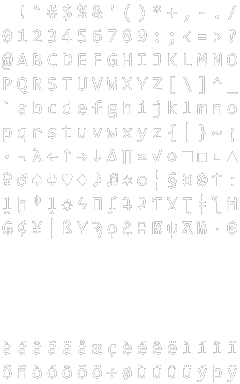
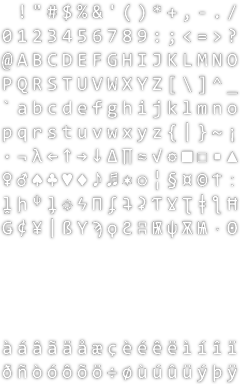
Introduce shadows below text glyphs, computed by WhiteAsAlpha.

diff --git a/tools/WhiteToAlpha/HQImage.java b/tools/WhiteToAlpha/HQImage.java
@@ -10,7 +10,7 @@ import java.util.Random;
 final public class HQImage
 {
 	private float[] data; 
-	private int width, height;
+	public int width, height;
 	static float SUBPIXEL_BIAS_R = -0.50f;
 	static float SUBPIXEL_BIAS_B = +0.50f;
 	void setData(int i, int j, int c, float value)
@@ -271,6 +271,61 @@ final public class HQImage
 		double res = Utils.hermite(fy, l1, l2, l3, l4);		
 		return res;
 	}
+
+	public HQImage blurHorizontal(float[] weights, float divider)
+	{
+		int N = weights.length;
+		assert((N % 2) == 1); // should be odd
+
+		HQImage res = new HQImage(width, height);
+
+		for (int j = 0; j < height; ++j)
+		{
+			for (int i = 0; i < width; ++i)
+			{
+				for (int c = 0; c < 3; ++c)
+				{
+					double sum = 0;
+					for (int k = 0; k < N; ++k)
+						sum += getValue(i + k - N/2, j, c) * weights[k];
+
+					res.setData(i, j, c, (float)(sum / divider));
+				}
+				res.setData(i, j, 3, 1.0f); // TODO why
+			}
+		}
+		return res;
+	}
+
+	public HQImage blurVertical(float[] weights, float divider)
+	{
+		int N = weights.length;
+		assert((N % 2) == 1); // should be odd
+
+		HQImage res = new HQImage(width, height);
+
+		for (int j = 0; j < height; ++j)
+		{
+			for (int i = 0; i < width; ++i)
+			{
+				for (int c = 0; c < 3; ++c)
+				{
+					double sum = 0;
+					for (int k = 0; k < N; ++k)
+						sum += getValue(i, j + k - N/2, c) * weights[k];
+
+					res.setData(i, j, c, (float)(sum / divider));
+				}
+				res.setData(i, j, 3, 1.0f); // TODO why
+			}
+		}
+		return res;
+	}
+
+	public HQImage blur(float[] weights, float divider)
+	{
+		return blurVertical(weights, divider).blurHorizontal(weights, divider);
+	}
 	
 	public HQImage bicubicResize(int newWidth, int newHeight, boolean LCD)
 	{
@@ -342,6 +397,32 @@ final public class HQImage
 			}
 		}	
 		return res;		
+	}
+
+    // Normal composition in GIMP
+	public HQImage compose(HQImage layer)
+	{
+		assert(layer.width == width);
+		assert(layer.height == height);
+		HQImage res = new HQImage(width, height);
+
+		for (int j = 0; j < height; ++j)
+		{
+			for (int i = 0; i < width; ++i)
+			{
+				float src_alpha = layer.getData(i, j, 3);
+				float dst_alpha = getData(i, j, 3);
+				for (int c = 0; c < 3; ++c)
+				{
+					float src = layer.getData(i, j, c);
+					float dst = layer.getData(i, j, c);
+					float r = src * src_alpha + (1 - src_alpha) * dst;
+					res.setData(i, j, c, r);
+				}
+				res.setData(i, j, 3, Math.max(src_alpha, dst_alpha));
+			}
+		}
+		return res;
 	}
 	
 	public double lanczosSample(double x, double y, int channel, int taps)

diff --git a/tools/WhiteToAlpha/WhiteAsAlpha.java b/tools/WhiteToAlpha/WhiteAsAlpha.java
@@ -6,6 +6,28 @@ public class WhiteAsAlpha
 	{
 		System.err.println("Usage: java WhiteAsAlpha <inout-file>");
 	}
+
+	static float[] generateGaussianKernel(int size)
+	{
+		float[] res = new float[size];
+
+		for (int s = 0; s < size; ++s)
+			res[s] = 0;
+		res[0] = 1;
+
+		for (int s = 1; s < size; ++s)
+		{			
+			float last = 0;
+			for (int i = 0; i < size; ++i)
+			{
+				float next = last + res[i];
+			    last = res[i];
+				res[i] = next;
+			}
+		}
+		return res;
+	}
+
 	public static void main(String[] args)
 	{	
 		if (args.length != 1)
@@ -25,9 +47,28 @@ public class WhiteAsAlpha
 			return;
 		}
 
+		int fontWidth = image.width / 16;
+
+
+		int N = (int)(0.5 + 11.0 * fontWidth / 21.0);
+		if ((N % 2) == 0)
+			N += 1;
+
 		//image = image.sharpen(0.20f);
+        float[] weights = generateGaussianKernel(N);
+
+        float divider = 0;
+        for (int i = 0; i < N; ++i)
+        	divider += weights[i];
+
+		divider *= 1.3;
+
+		HQImage shadow = image.blur(weights, divider);
+		shadow.convertWhiteToAlpha();
 
 		image.convertWhiteToAlpha();
+
+		image = shadow.compose(image);
 	
 		try
 		{
